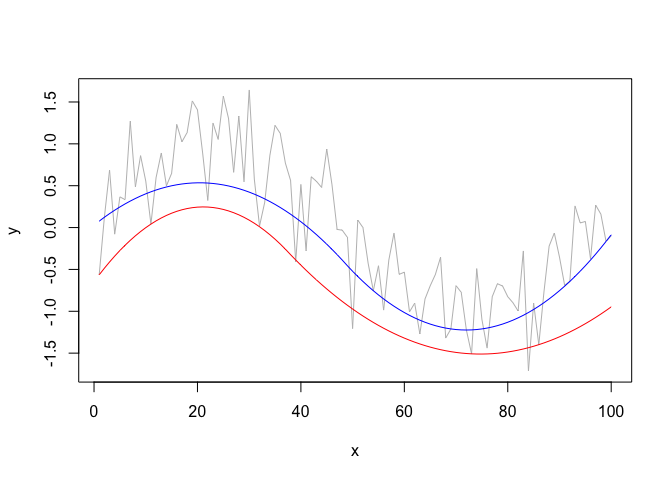
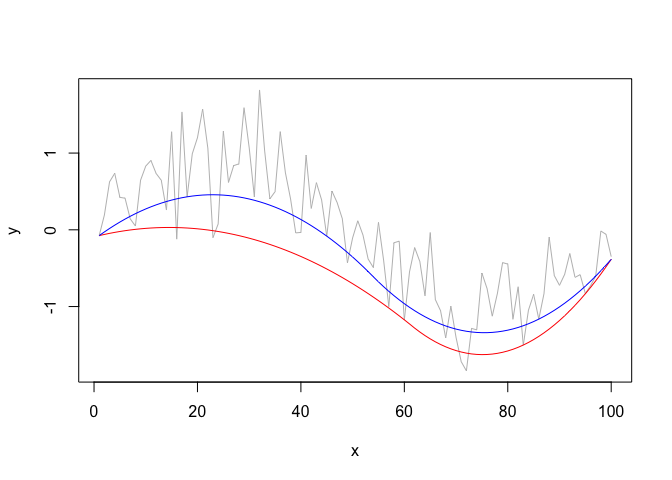
readme updates, removed print statment from get_trend_BIC

diff --git a/README.md b/README.md
@@ -21,15 +21,8 @@ Example
 Estimate the 5th and 20th quantile trends using a fixed value of the smoothing parameter *λ*.
 
 ``` r
-library(devtools)
-load_all()
-#> Loading detrendr
+library(detrendr)
 #> Loading required package: Matrix
-#> 
-#> Attaching package: 'testthat'
-#> The following objects are masked from 'package:devtools':
-#> 
-#>     setup, test_file
 n <- 100
 x <- seq(1, n, 1)
 y <- sin(x*2*pi/n) + rnorm(n, 0, .4)
@@ -43,6 +36,38 @@ lines(trend[,1]~x, col="red")
 lines(trend[,2]~x, col="blue")
 ```
 
-<img src="man/figures/README-example1-1.png" width="100%" />
+<img src="man/figures/README-example1-1.png" width="70%" />
 
-Use eBIC criterion to choose smoothing parameter
+Use eBIC criterion to choose smoothing parameter:
+
+``` r
+
+trend_fit <- get_trend_BIC(y, tau, k, plot_lambda = TRUE)
+#> Using same lambda for all quantiles
+#> [1] "i=1 lambda=1.000000"
+#> [1] "i=2 lambda=2.718282"
+#> [1] "i=3 lambda=7.389056"
+#> [1] "i=4 lambda=20.085537"
+#> [1] "i=5 lambda=54.598150"
+#> [1] "i=6 lambda=148.413159"
+#> [1] "i=7 lambda=403.428793"
+#> [1] "i=8 lambda=1096.633158"
+#> [1] "i=9 lambda=2980.957987"
+#> [1] "i=10 lambda=8103.083928"
+#> [1] "i=11 lambda=22026.465795"
+#> [1] "i=12 lambda=59874.141715"
+#> [1] "i=13 lambda=162754.791419"
+#> [1] "i=14 lambda=442413.392009"
+#> [1] "i=15 lambda=1202604.284165"
+```
+
+<img src="man/figures/README-BIC-1.png" width="70%" />
+
+``` r
+trend <- trend_fit$trend
+plot(y~x, type="l", col="grey")
+lines(trend[,1]~x, col="red")
+lines(trend[,2]~x, col="blue")
+```
+
+<img src="man/figures/README-BIC-2.png" width="70%" />
